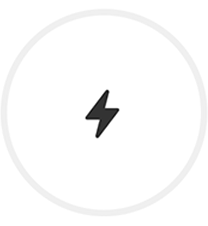
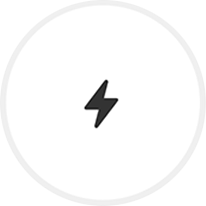
Updated files

Changed region(s): [[0.4369, 0.3786, 0.5825, 0.5534], [0.4078, 0.5243, 0.5243, 0.6408]]

diff --git a/components/6/ctacomp.html b/components/6/ctacomp.html
@@ -5,7 +5,8 @@
 <head>
 	<title>WSP: Pasquale Palazzolo | Call To Action</title>
 	<link rel="stylesheet" type="text/css" href="../../css/reset.css" />
-	<!-- link rel="stylesheet" type="text/css" href="../../css/main.css" / -->
+	<link rel="stylesheet" type="text/css" href="../../css/main.css" />
+	<link rel="stylesheet" type="text/css" href="ctacomp.css"
 	<!-- Link to my chosen serif Google Font -->
 	<link href='http://fonts.googleapis.com/css?family=Sanchez' rel='stylesheet' type='text/css'>
 	<!-- Link to my chosen sans serif Google Font -->
@@ -20,7 +21,7 @@
 			<article>
 				<section>
 					<img src="images/Weight.png" alt="Weight Remaining" />
-					<p><span>163.6</span> lbs to go</p>
+					<p><span class="larger">163.6</span> lbs to go</p>
 				</section>
 			</article>
 
@@ -28,7 +29,7 @@
 			<article>
 				<section>
 					<img src="images/Burned.png" alt="Burned" />
-					<p><span>1,833</span> calories</p>
+					<p><span class="larger">1,833</span> calories</p>
 					<p class="green">Champ!</p>
 				</section>
 			</article>
@@ -37,7 +38,7 @@
 			<article>
 				<section>
 					<img src="images/Active.png" alt="" />
-					<p><span>0</span> active minutes</p>
+					<p><span class="larger">0</span> active minutes</p>
 				</section>
 			</article>
 
@@ -45,7 +46,7 @@
 			<article>
 				<section>
 					<img src="images/Floors.png" alt="" />
-					<p><span>0</span> floors</p>
+					<p><span class="larger">0</span> floors</p>
 				</section>
 			</article>
 
@@ -53,7 +54,7 @@
 			<article>
 				<section>
 					<img src="images/Steps.png" alt="" />
-					<p><span>10,000</span> steps</p>
+					<p><span class="larger">10,000</span> steps</p>
 					<p class="smaller">Best in a day</p>
 				</section>
 			</article>
@@ -62,7 +63,7 @@
 			<article>
 				<section>
 					<img src="images/Cals.png" alt="" />
-					<p><span>1,669</span> cals left to eat</p>
+					<p><span class="larger">1,669</span> cals left to eat</p>
 				</section>
 			</article>
 		<section>

diff --git a/components/6/ctacomp.css b/components/6/ctacomp.css
@@ -1,0 +1,39 @@
+/* 
+================================================================================
+CTA COMPONENT STYLESHEET
+================================================================================ */
+
+body {
+	background: #2F3F43;
+	color: #333333;
+}
+
+#fitCTAs {
+	width: 920px;
+	margin: 0 auto;
+}
+
+article {
+	background: #ffffff;
+	text-align: center;
+	width: 275px;
+	height: 275px;
+	display: inline-block;
+	vertical-align: top;
+	border-radius: 4px;
+	padding: 14px;
+	margin: 10px 10px 0 0;
+}
+
+p {
+	margin-top: 25px;
+}
+
+.larger {
+	font-size: 50px;
+}
+
+img {
+	width: 60%;
+	height: 60%;
+}

diff --git a/components/6/component.css b/components/6/component.css
@@ -1,8 +1,5 @@
 /* 
 ================================================================================
-COMPONENT STYLESHEET
+CTA COMPONENT STYLESHEET
 ================================================================================ */
 
-/* HEADER ======================================== */
-
-/* HEADER ======================================== */
